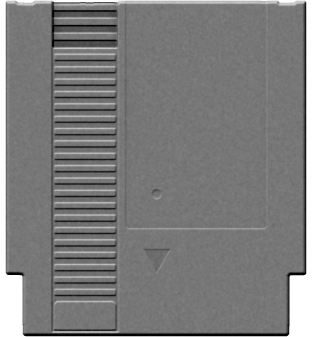
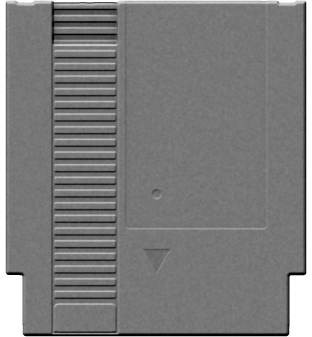
NES cart: grip ridges, ribs, foot pad and bottom rim measured on a photo of a real cart
Claude-Session: https://claude.ai/code/session_01129iw1QqFJMHZyH1VgW44k

diff --git a/tools/carts/nes_render.py b/tools/carts/nes_render.py
@@ -27,27 +27,30 @@ height = np.zeros((h, w), np.float32)
 dist = nd.distance_transform_edt(inside)
 height += np.where(inside, np.clip(dist / (3.0 * SS), 0, 1) ** 0.5, 0) * 10
 
-# the channel and its foot pad stop above a flat rim along the bottom edge (Roy)
-channel = rect(0.156, -0.01, 0.374, 0.985) & inside
-grip = rect(0.160, -0.01, 0.370, 0.142, 0.004) & inside
+# Measured on Roy's photo of a real cart. The channel and its foot pad stop just above a thin
+# flat rim along the bottom edge.
+channel = rect(0.156, -0.01, 0.374, 0.990) & inside
+grip = rect(0.160, -0.01, 0.370, 0.133, 0.004) & inside
 label = rect(0.400, -0.01, 0.866, 0.678, 0.010) & inside
-panel = rect(0.163, 0.895, 0.367, 0.979, 0.014)
+panel = rect(0.163, 0.902, 0.367, 0.985, 0.014)
 height -= channel * 3.0
 height -= grip * 9.0
-# ridges from the top edge down: high, low, high, low, high, low (Roy)
-ridges = np.zeros((h, w), bool)
+# ridges from the top edge down: high, low, high, low, high, low, then a ledge at the grip's
+# foot, level with the ridges (Roy)
+ridges = rect(0.160, 0.120, 0.370, 0.133, 0.004) & grip
 for k in range(3):
     # the top one starts under the rounded-over top edge, so it shows as wide as the rest
-    v0 = 0.010 + k * 0.044
-    ridges |= rect(0.160, -0.01 if k == 0 else v0, 0.370, v0 + 0.022)
+    v0 = 0.009 + k * 0.037
+    ridges |= rect(0.160, -0.01 if k == 0 else v0, 0.370, v0 + 0.019)
 height += ridges * 3.5
 # 20 ribs under the grip with equal deep strips between, and one as deep above the first and
 # under the last, before the foot pad (Roy)
-gap = (0.895 - 0.142 - 20 * 0.0175) / 21
+rib = 0.020
+gap = (0.902 - 0.133 - 20 * rib) / 21
 for k in range(20):
-    v0 = 0.142 + gap + k * (0.0175 + gap)
-    height += rect(0.164, v0, 0.366, v0 + 0.0175, 0.003) * 2.6
-panel |= rect(0.163, 0.94, 0.367, 0.979)  # square at the foot (Roy)
+    v0 = 0.133 + gap + k * (rib + gap)
+    height += rect(0.164, v0, 0.366, v0 + rib, 0.003) * 2.6
+panel |= rect(0.163, 0.94, 0.367, 0.985)  # square at the foot (Roy)
 height += panel * 2.6
 height -= label * 1.2
 tri = poly(lambda d: d.polygon([(U(0.458), V(0.741)), (U(0.547), V(0.741)), (U(0.502), V(0.810))], fill=255))
@@ -58,7 +61,7 @@ r = np.hypot(xx - U(0.502), yy - V(0.576)) / (0.017 * w)
 height += (np.where(r < 1, -np.clip(1 - r * r, 0, 1) ** 0.6, 0) + 0.18 * np.exp(-((r - 1.02) / 0.10) ** 2)
            + 0.25 * np.exp(-(r / 0.28) ** 2) * (r < 1)) * 1.8
 # a fine seam where the channel's ridge meets the right half
-height -= rect(0.372, -0.01, 0.376, 0.985) * 0.8
+height -= rect(0.372, -0.01, 0.376, 0.990) * 0.8
 
 hs = nd.gaussian_filter(height, 1.1 * SS / 2)
 gy, gx = np.gradient(hs)
